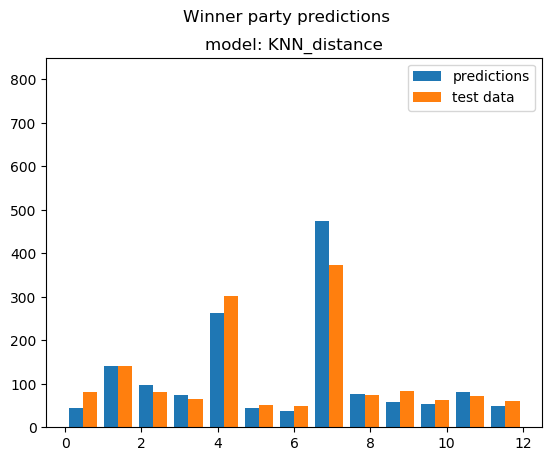
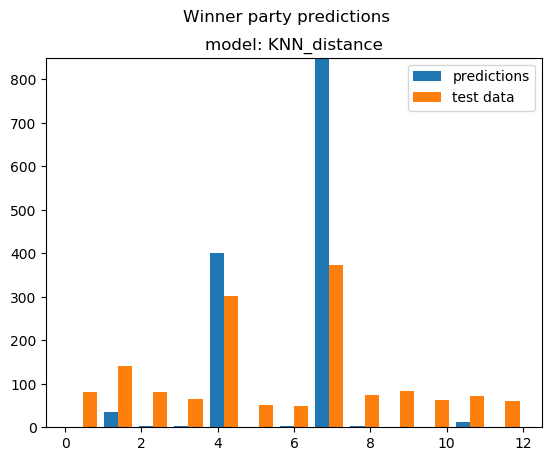
report

diff --git a/report.tex b/report.tex
@@ -86,11 +86,19 @@ As a part of non-mandatory assignment, we will implement the automatic model sel
 \subsection{Different models for different tasks}
 As it stated in the assignment document -  "one size doesn't fit all", i.e. different models can be the best models for each task. To handle this, we decided to include in our $modelSelector()$ class an option to select best model for each task. At the time of writing this paragraph we still don't know if the same model will be selected for all tasks or not.
 
+
 \newpage
 \section{Candidate models}
 In this section we discuss the candidate models which were selected for our experiments. For the task of most probable voters, we need to predict probabilities, but not the exact tag, so we want to use models which can provide this functionality. Based on post in \href{https://www.researchgate.net/post/What_are_the_best_supervised_classifiers_to_classify_the_problem_of_multiclass_classification}{www.researchgate.net} stating that SVM, KNN and Random Forest can successfully handle a problem of multi-class classification, we decided to choose those two models in addition to a MLP, resulting a total of four candidate models.
 
 \subsection{Hyper parameters tuning with k-fold cross validation}
+In order to select the best model candidates, we need to perform 3-fold cross validation using training set only. The cross validation process for all models implemented in $crossValidator$ class. In all our cross-validation experiments we used the $accuracy$ as model performance measurement. Although its not the same measurement we selected for each task, it's still more strict requirement than all other metric we will describe in next sections.
+
+\begin{figure}[h]
+\centering
+\includegraphics[width=0.5\textwidth]{report_pics/frog}
+\caption{A sad fact about hyper-parameters tuning}
+\end{figure}
 
 \newpage
 \subsection{Support vector machine}
@@ -194,20 +202,18 @@ Multi-layer Perceptron classifier. This model optimizes the log-loss function us
 \begin{gather*}
 N_h = \dfrac{N_s}{\alpha * (N_i + N_o)}
 \end{gather*}
-while $N_o$ is number of output neurons, $N_i$ is number of input neurons, $N_s$ number of training samples and $\alpha$ is arbitrary factor between 2 and 10. In our case, for $\alpha = 10$
-\begin{gather*}
-N_h = \dfrac{7000}{2 * (16 + 13)} = 166
-\end{gather*}
-Causing upper bound of 166 neurons in hidden layer. Thus, during cross validation we will test numbers in this range.
-	\item Activation function - The default option is ReLU, but we would like to perform the experiment with Leaky ReLU as it has the same functionality but also prevents the "dead perceptron" phenomenon.
+while $N_o$ is number of output neurons, $N_i$ is number of input neurons, $N_s$ number of training samples and $\alpha$ is arbitrary factor between 2 and 10. In our case, for $\alpha = 10$ 
+causing upper bound of 166 neurons in hidden layer. Thus, during cross validation we will test numbers in this range.
+	\item Activation function - The default option is ReLU, but we would like to perform the experiment with tanh function as well.
+\end{enumerate}
+
+We decided to leave other parameters at their default values as the problem of selecting the optimal neural network model is complex by itself and not should be covered in this submission, resulting 6 models trained and tested with different values of hidden layer size. As we can see from the plot, the results are not very promising and vary from iteration to iteration. We decided not to use this model at all because of inconsistency of the results.  
+
 \begin{figure}[h]
 \centering
-\includegraphics[width=0.5\textwidth]{report_pics/relu}
-\caption{ReLU (left) and Leaky ReLU (right)}
+\includegraphics[width=0.5\textwidth]{Cross_valid_plots/mlp_h_fig}
+\caption{MLP cross validation results}
 \end{figure}
-\end{enumerate}
-We decided to leave other parameters at their default values as the problem of selecting the optimal neural network model is complex by itself and not should be covered in this submission. 
-
 
 \newpage
 \section{Performance measurements}
@@ -235,14 +241,8 @@ To visualize the prediction results on validation set we will use histogram of t
 \begin{figure}[htp]
 \centering
 \includegraphics[width=.3\textwidth]{Winner_party_plots/SVM_rbf_fig}\quad
-\includegraphics[width=.3\textwidth]{Winner_party_plots/KNN_uniform_fig}\quad
-\includegraphics[width=.3\textwidth]{Winner_party_plots/KNN_distance_fig}
-
-\medskip
-
-\includegraphics[width=.3\textwidth]{Winner_party_plots/Random_Forest_fig}\quad
-\includegraphics[width=.3\textwidth]{Winner_party_plots/MLP[24]_fig}
-
+\includegraphics[width=.3\textwidth]{Winner_party_plots/KNN_distance_fig}\quad
+\includegraphics[width=.3\textwidth]{Winner_party_plots/Random_Forest_fig}
 \caption{Votes distribution}
 \end{figure}
 

diff --git a/main.py b/main.py
@@ -14,16 +14,12 @@ def main():
     x_train, y_train = dp.get_train_xy()
     x_val, y_val = dp.get_val_xy()
     x_test, y_test = dp.get_test_xy()
-    models = [svm.SVC(kernel='rbf', C=1),
-              KNeighborsClassifier(n_neighbors=3, weights='uniform'),
-              KNeighborsClassifier(n_neighbors=3, weights='distance'),
-              RandomForestClassifier(n_estimators=50, max_depth=5, min_samples_split=0.1),
-              MLPClassifier([24], random_state=1)]
+    models = [svm.SVC(kernel='rbf', C=0.8, gamma='auto'),
+              KNeighborsClassifier(n_neighbors=85, weights='distance'),
+              RandomForestClassifier(n_estimators=50, max_depth=15, min_samples_split=0.01)]
     model_names = ['SVM_rbf',
-                   'KNN_uniform',
                    'KNN_distance',
-                   'Random_Forest',
-                   'MLP[24]']
+                   'Random_Forest']
     #
     sl = modelSelector(x_train, y_train, x_val, y_val, x_test, y_test, models, model_names)
     sl.fit()

diff --git a/cross_validation.py b/cross_validation.py
@@ -25,6 +25,7 @@ class crossValidator():
         self.best_knn = None
         self.best_random_forest = None
         self.best_mlp = None
+        self.num_of_classes = 13
 
     def getBestSVM(self, graphic=False):
         scores = []
@@ -99,6 +100,7 @@ class crossValidator():
             avg_score1 = 0
             avg_score2 = 0
             avg_score3 = 0
+
             forest1 = RandomForestClassifier(n_estimators=n, max_depth=5, min_samples_split=0.1)
             forest2 = RandomForestClassifier(n_estimators=n, max_depth=15, min_samples_split=0.1)
             forest3 = RandomForestClassifier(n_estimators=n, max_depth=35, min_samples_split=0.1)
